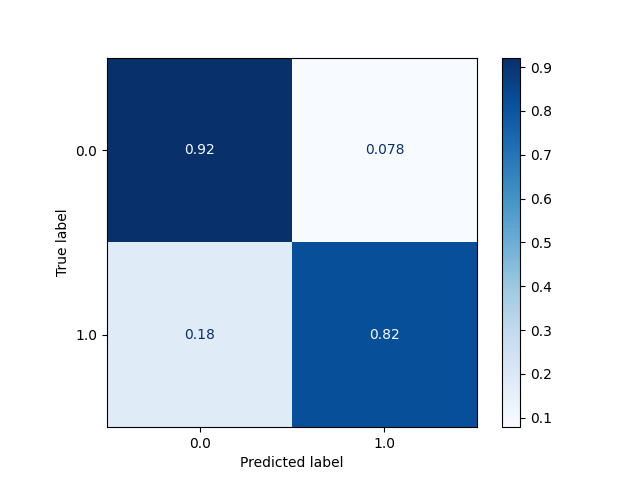
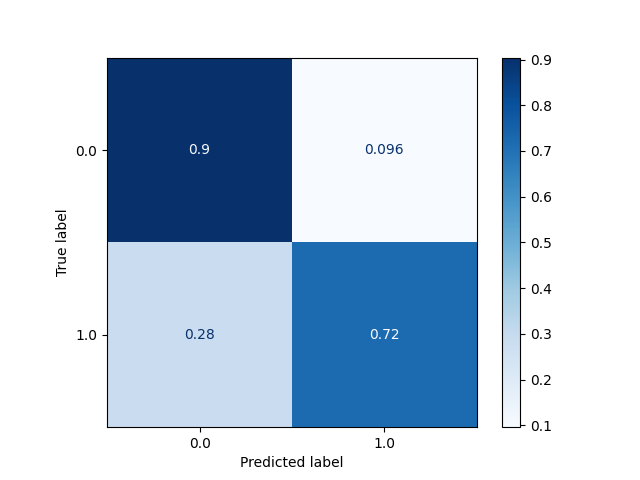
Depth with 1

diff --git a/train.py b/train.py
@@ -13,7 +13,7 @@ y_test = np.genfromtxt("data/test_labels.csv")
 
 
 # Fit a model
-depth = 5
+depth = 1
 clf = RandomForestClassifier(max_depth=depth)
 clf.fit(X_train,y_train)
 
